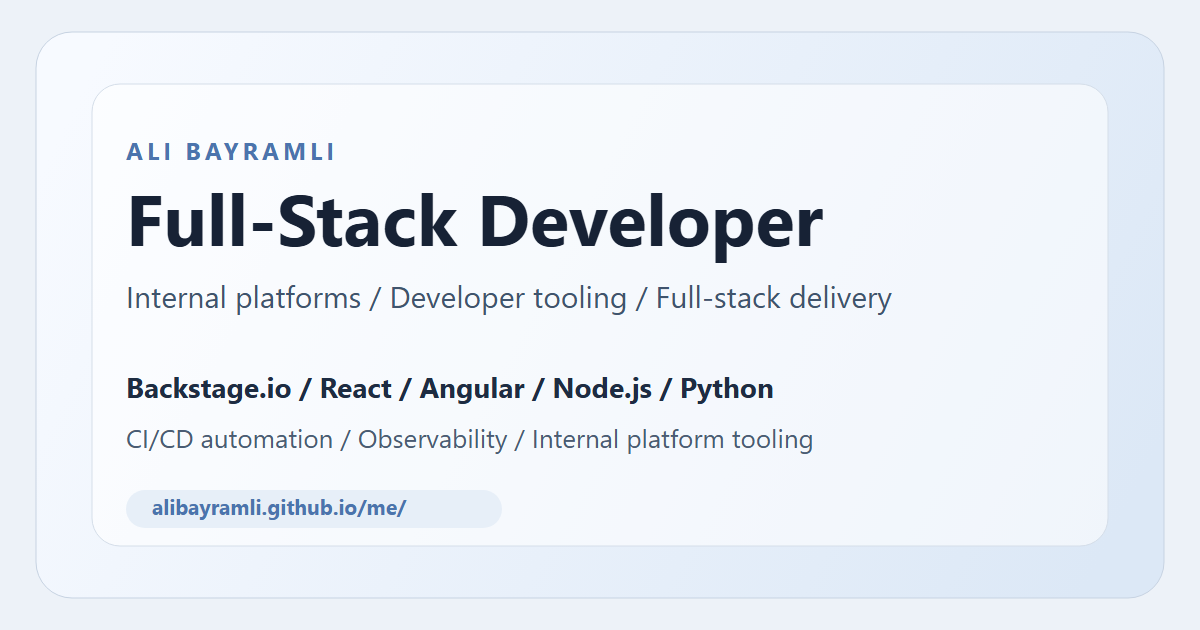
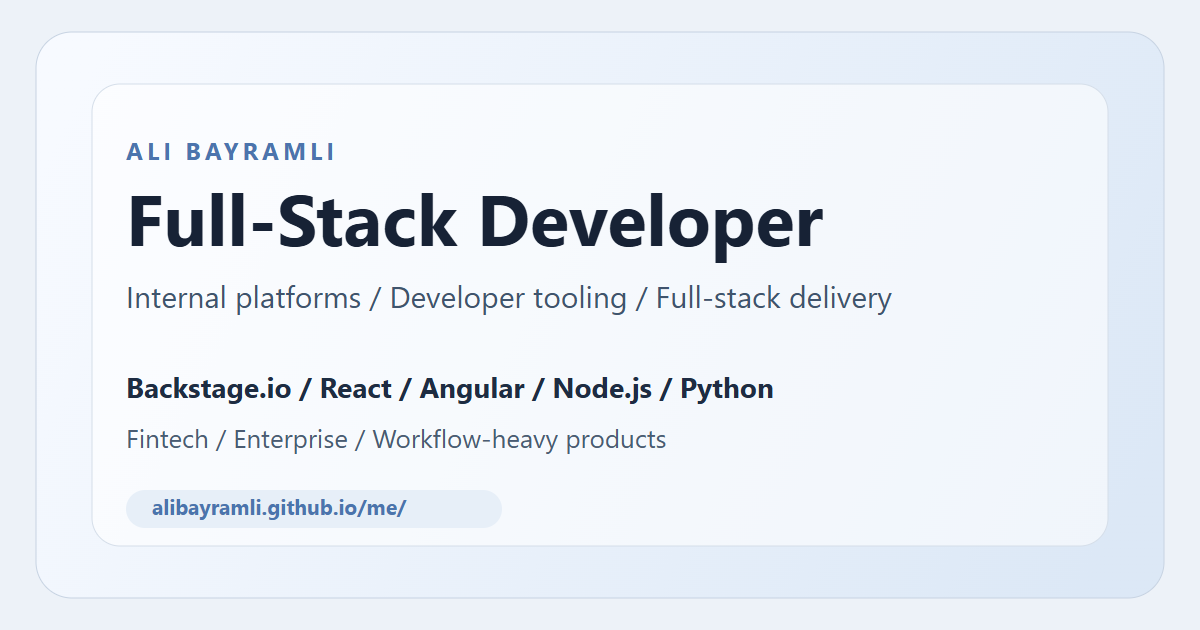
feat: section higlight and stale content removal

Changed region(s): [[0.0925, 0.6635, 0.6783, 0.7238]]

diff --git a/src/components/sections/Navigation.tsx b/src/components/sections/Navigation.tsx
@@ -85,19 +85,27 @@ const Navigation = ({ theme, onToggleTheme }: NavigationProps) => {
         </div>
 
         <div className="flex flex-none items-center justify-center gap-8">
-          {NAV_ITEMS.map((item) => (
-            <a
-              key={item.label}
-              href={item.href}
-              className="relative text-sm text-muted-foreground transition-colors hover:text-foreground"
-              {...getTrackedElementProps('navigation_click', {
-                placement: 'desktop_nav',
-                targetSection: item.href.replace(/^#/, ''),
-              })}
-            >
-              {item.label}
-            </a>
-          ))}
+          {NAV_ITEMS.map((item) => {
+            const isExperience = item.href === '#experience'
+
+            return (
+              <a
+                key={item.label}
+                href={item.href}
+                className={
+                  isExperience
+                    ? 'relative rounded-full border border-primary/30 bg-primary/[0.08] px-3 py-1.5 text-sm font-semibold text-primary transition-colors hover:border-primary/45 hover:bg-primary/[0.13]'
+                    : 'relative text-sm text-muted-foreground transition-colors hover:text-foreground'
+                }
+                {...getTrackedElementProps('navigation_click', {
+                  placement: 'desktop_nav',
+                  targetSection: item.href.replace(/^#/, ''),
+                })}
+              >
+                {item.label}
+              </a>
+            )
+          })}
         </div>
 
         <div className="flex basis-0 flex-1 justify-end">{renderThemeToggle()}</div>
@@ -159,20 +167,28 @@ const Navigation = ({ theme, onToggleTheme }: NavigationProps) => {
             </Button>
 
             <div className="flex flex-col gap-4 pt-1">
-              {mobileNavItems.map((item) => (
-                <a
-                  key={`${item.label}-${item.href}`}
-                  href={item.href}
-                  className="px-3 text-sm text-muted-foreground transition-colors hover:text-foreground"
-                  onClick={() => setMenuOpen(false)}
-                  {...getTrackedElementProps('navigation_click', {
-                    placement: 'mobile_nav',
-                    targetSection: item.href.replace(/^#/, ''),
-                  })}
-                >
-                  {item.label}
-                </a>
-              ))}
+              {mobileNavItems.map((item) => {
+                const isExperience = item.href === '#experience'
+
+                return (
+                  <a
+                    key={`${item.label}-${item.href}`}
+                    href={item.href}
+                    className={
+                      isExperience
+                        ? 'rounded-xl border border-primary/30 bg-primary/[0.08] px-3 py-2 text-sm font-semibold text-primary transition-colors hover:bg-primary/[0.13]'
+                        : 'px-3 text-sm text-muted-foreground transition-colors hover:text-foreground'
+                    }
+                    onClick={() => setMenuOpen(false)}
+                    {...getTrackedElementProps('navigation_click', {
+                      placement: 'mobile_nav',
+                      targetSection: item.href.replace(/^#/, ''),
+                    })}
+                  >
+                    {item.label}
+                  </a>
+                )
+              })}
             </div>
           </div>
         </div>

diff --git a/src/components/sections/Hero.tsx b/src/components/sections/Hero.tsx
@@ -70,13 +70,13 @@ const Hero = () => {
               </Button>
               <Button size="lg" variant="outline" className="w-full sm:w-auto" asChild>
                 <a
-                  href="#projects"
-                  {...getTrackedElementProps('projects_cta_click', {
+                  href="#experience"
+                  {...getTrackedElementProps('experience_cta_click', {
                     source: 'hero',
-                    targetSection: 'projects',
+                    targetSection: 'experience',
                   })}
                 >
-                  View Projects
+                  View Experience
                   <MoveRight className="ml-2 h-4 w-4" />
                 </a>
               </Button>
